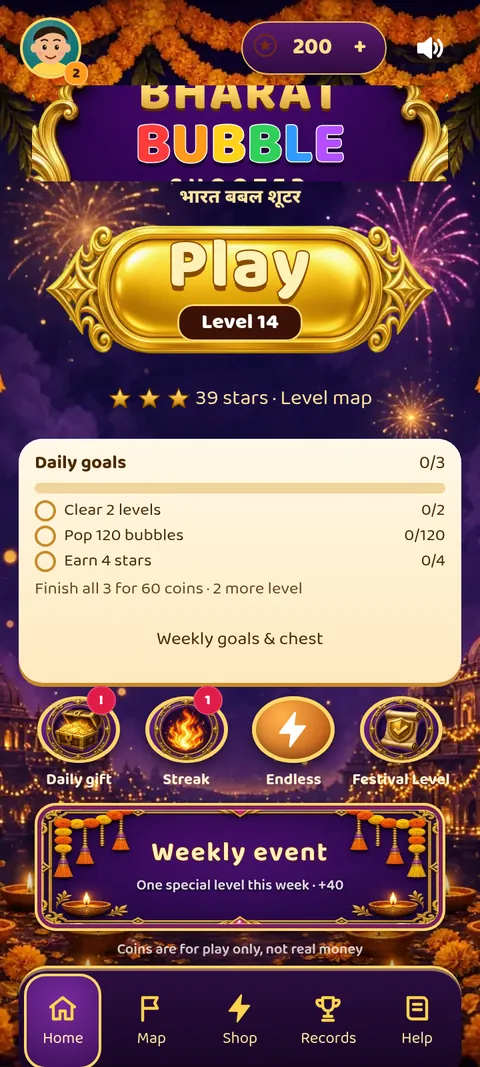
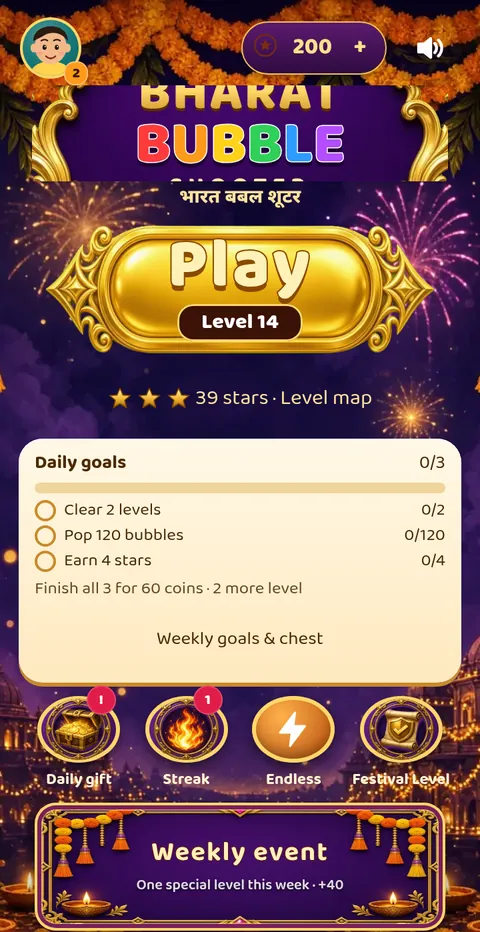
Review fixes: real, clean screenshots and Carrom boards line
- snakes-game: crop off the 'Pass & Play · Match Cost 0' pill (480x940)
- bubble-game: real level captured from desi-bubble-shooter af4ed8e with
  the shooter, aim line and boosters; test banner cropped off (480x967)
- callbreak-table: fresh capture from desi-call-break 4745f1b with the
  player named Raju and the current header; test banner cropped (480x975)
- bubble-home: crop off the disclaimer line above the tab bar (480x932)
- Carrom: 'from Royal Wood to Rajwada Royal' in EN and HI
- 1:2 phone frame (.screen.r12) for ~1:2 shots so they are not side-cropped
- tests: frame shape matches each shot; Carrom boards line

diff --git a/public/carrom/index.html b/public/carrom/index.html
@@ -13,7 +13,7 @@
 <link rel="apple-touch-icon" href="/apple-touch-icon.png">
 <link rel="preload" href="/assets/fonts/YesevaOne.woff2" as="font" type="font/woff2" crossorigin>
 <link rel="preload" href="/assets/fonts/Literata-latin.woff2" as="font" type="font/woff2" crossorigin>
-<link rel="stylesheet" href="/assets/css/site.css?v=c27aa1b15f">
+<link rel="stylesheet" href="/assets/css/site.css?v=cddb6d443c">
 <meta property="og:site_name" content="Bharat Joy">
 <meta property="og:type" content="website">
 <meta property="og:locale" content="en_IN">
@@ -65,7 +65,7 @@
         <li><span data-i18n="t1">Three modes: Classic (cover the queen), Freestyle to 120 points, and Disc Pool</span></li>
         <li><span data-i18n="t2">Play the computer at Easy, Medium or Hard, or two players on one phone with Pass and Play</span></li>
         <li><span data-i18n="t3">Aaj ka Shot: a new carrom puzzle every day</span></li>
-        <li><span data-i18n="t4">Seven boards, from Royal Wood to Diwali Night. Looks only: every board plays the same.</span></li>
+        <li><span data-i18n="t4">Seven boards, from Royal Wood to Rajwada Royal. Looks only: every board plays the same.</span></li>
         <li><span data-i18n="t5">A daily gift, a daily spin, goals, chests, streaks and trophies</span></li>
         <li><span data-i18n="t6">Optional match commentary, spoken by your phone’s own voice</span></li>
         <li><span data-i18n="t7">Rewarded ads only when you choose, and a banner on the home screen and during matches. No full-screen ads.</span></li>
@@ -110,7 +110,7 @@
     </div>
   </footer>
 </div>
-<script type="application/json" id="i18n-hi">{"t1":"तीन मोड: क्लासिक (रानी कवर करो), 120 अंक तक फ़्रीस्टाइल, और डिस्क पूल","t2":"कंप्यूटर के साथ आसान, मध्यम या कठिन स्तर पर खेलें, या पास एंड प्ले में एक फ़ोन पर दो खिलाड़ी","t3":"आज का शॉट: हर दिन एक नई कैरम पहेली","t4":"रॉयल वुड से दिवाली नाइट तक सात बोर्ड। सिर्फ़ रूप बदलता है, हर बोर्ड पर खेल एक जैसा है।","t5":"डेली गिफ़्ट, डेली स्पिन, लक्ष्य, संदूक, स्ट्रीक और ट्रॉफ़ी","t6":"चाहें तो मैच पर कमेंट्री, फ़ोन की अपनी आवाज़ में","t7":"इनाम वाले विज्ञापन सिर्फ़ आपकी मर्ज़ी से, और बैनर होम स्क्रीन पर और मैच के दौरान। कोई फ़ुल-स्क्रीन विज्ञापन नहीं।","t8":"बिना इंटरनेट भी चलता है, विज्ञापनों के लिए इंटरनेट चाहिए। अंग्रेज़ी और हिंदी।","t9":"भारत जॉय का एक गेम","t10":"जल्द आ रहा है","t11":"स्ट्राइकर से निशाना लगाओ, रानी कवर करो।","t12":"आपके फ़ोन के लिए कैरम, अंग्रेज़ी और हिंदी में। क्लासिक, फ़्रीस्टाइल या डिस्क पूल कंप्यूटर के साथ खेलें, या फ़ोन दोस्त को पास करें। बिना इंटरनेट भी चलता है।","t13":"कैरम बोर्ड पर","t14":"गेम की झलक","t15":"सिक्के सिर्फ़ खेलकर कमाए जाते हैं और उनका कोई पैसा मूल्य नहीं है। इन्हें न ख़रीदा जा सकता है न भुनाया जा सकता है। पैकेज नाम: com.bharatjoy.carrom.","t16":"जल्द Google Play पर","t17":"गोपनीयता नीति","t18":"सामग्री पर जाएँ","t19":"गेम","t20":"गोपनीयता","t21":"संपर्क","t22":"एक छोटा स्टूडियो। Google Play के लिए गेम। सिक्के सिर्फ़ खेलने के लिए हैं, उनका कोई पैसा मूल्य नहीं है।","t23":"सहायता","t24":"नीतियाँ","t25":"भारत लूडो गोपनीयता","t26":"भारत ब्लॉक पहेली गोपनीयता","t27":"भारत स्वीट मेला गोपनीयता","t28":"भारत कैरम गोपनीयता","t29":"भारत सुडोकू गोपनीयता","t30":"भारत कॉल ब्रेक गोपनीयता","t31":"भारत बबल शूटर गोपनीयता","t32":"डेटा हटाना","t33":"उपयोग की शर्तें","t34":"संपर्क"}</script>
+<script type="application/json" id="i18n-hi">{"t1":"तीन मोड: क्लासिक (रानी कवर करो), 120 अंक तक फ़्रीस्टाइल, और डिस्क पूल","t2":"कंप्यूटर के साथ आसान, मध्यम या कठिन स्तर पर खेलें, या पास एंड प्ले में एक फ़ोन पर दो खिलाड़ी","t3":"आज का शॉट: हर दिन एक नई कैरम पहेली","t4":"रॉयल वुड से राजवाड़ा रॉयल तक सात बोर्ड। सिर्फ़ रूप बदलता है, हर बोर्ड पर खेल एक जैसा है।","t5":"डेली गिफ़्ट, डेली स्पिन, लक्ष्य, संदूक, स्ट्रीक और ट्रॉफ़ी","t6":"चाहें तो मैच पर कमेंट्री, फ़ोन की अपनी आवाज़ में","t7":"इनाम वाले विज्ञापन सिर्फ़ आपकी मर्ज़ी से, और बैनर होम स्क्रीन पर और मैच के दौरान। कोई फ़ुल-स्क्रीन विज्ञापन नहीं।","t8":"बिना इंटरनेट भी चलता है, विज्ञापनों के लिए इंटरनेट चाहिए। अंग्रेज़ी और हिंदी।","t9":"भारत जॉय का एक गेम","t10":"जल्द आ रहा है","t11":"स्ट्राइकर से निशाना लगाओ, रानी कवर करो।","t12":"आपके फ़ोन के लिए कैरम, अंग्रेज़ी और हिंदी में। क्लासिक, फ़्रीस्टाइल या डिस्क पूल कंप्यूटर के साथ खेलें, या फ़ोन दोस्त को पास करें। बिना इंटरनेट भी चलता है।","t13":"कैरम बोर्ड पर","t14":"गेम की झलक","t15":"सिक्के सिर्फ़ खेलकर कमाए जाते हैं और उनका कोई पैसा मूल्य नहीं है। इन्हें न ख़रीदा जा सकता है न भुनाया जा सकता है। पैकेज नाम: com.bharatjoy.carrom.","t16":"जल्द Google Play पर","t17":"गोपनीयता नीति","t18":"सामग्री पर जाएँ","t19":"गेम","t20":"गोपनीयता","t21":"संपर्क","t22":"एक छोटा स्टूडियो। Google Play के लिए गेम। सिक्के सिर्फ़ खेलने के लिए हैं, उनका कोई पैसा मूल्य नहीं है।","t23":"सहायता","t24":"नीतियाँ","t25":"भारत लूडो गोपनीयता","t26":"भारत ब्लॉक पहेली गोपनीयता","t27":"भारत स्वीट मेला गोपनीयता","t28":"भारत कैरम गोपनीयता","t29":"भारत सुडोकू गोपनीयता","t30":"भारत कॉल ब्रेक गोपनीयता","t31":"भारत बबल शूटर गोपनीयता","t32":"डेटा हटाना","t33":"उपयोग की शर्तें","t34":"संपर्क"}</script>
 <script src="/assets/js/lang.js?v=e0640998f9"></script>
 </body>
 </html>

diff --git a/public/bubble-shooter/index.html b/public/bubble-shooter/index.html
@@ -13,7 +13,7 @@
 <link rel="apple-touch-icon" href="/apple-touch-icon.png">
 <link rel="preload" href="/assets/fonts/YesevaOne.woff2" as="font" type="font/woff2" crossorigin>
 <link rel="preload" href="/assets/fonts/Literata-latin.woff2" as="font" type="font/woff2" crossorigin>
-<link rel="stylesheet" href="/assets/css/site.css?v=c27aa1b15f">
+<link rel="stylesheet" href="/assets/css/site.css?v=cddb6d443c">
 <meta property="og:site_name" content="Bharat Joy">
 <meta property="og:type" content="website">
 <meta property="og:locale" content="en_IN">
@@ -46,7 +46,7 @@
 
   <main id="main">
   <section class="game-hero" aria-labelledby="game-title">
-    <div class="frame"><div class="phone float"><div class="bezel"><div class="screen"><img src="/assets/img/shots/bubble-home.webp" width="480" height="1067" alt="Bharat Bubble Shooter home screen with Play, daily goals and the weekly event" fetchpriority="high" decoding="async"></div></div></div></div>
+    <div class="frame"><div class="phone float"><div class="bezel"><div class="screen r12"><img src="/assets/img/shots/bubble-home.webp" width="480" height="932" alt="Bharat Bubble Shooter home screen with Play, daily goals and the weekly event" fetchpriority="high" decoding="async"></div></div></div></div>
     <div class="game-copy">
       <img class="game-icon" src="/assets/img/icons/bubble-icon-96.webp" width="84" height="84" alt="Bharat Bubble Shooter icon" fetchpriority="high">
       <p class="kicker"><span data-i18n="t9">A Bharat Joy game</span></p>
@@ -73,7 +73,7 @@
       </ul>
     </div>
     <figure class="feat-shot">
-      <div class="phone "><div class="bezel"><div class="screen"><img src="/assets/img/shots/bubble-game.webp" width="480" height="1034" alt="A Bharat Bubble Shooter level in progress, with the lotus shooter, the aim line and boosters" loading="lazy" decoding="async"></div></div></div>
+      <div class="phone "><div class="bezel"><div class="screen r12"><img src="/assets/img/shots/bubble-game.webp" width="480" height="967" alt="A Bharat Bubble Shooter level in progress, with the lotus shooter, the aim line and boosters" loading="lazy" decoding="async"></div></div></div>
       <figcaption class="sr-only"><span data-i18n="t14">Screens from the game</span></figcaption>
     </figure>
   </section>

diff --git a/public/saanp-seedhi/index.html b/public/saanp-seedhi/index.html
@@ -13,7 +13,7 @@
 <link rel="apple-touch-icon" href="/apple-touch-icon.png">
 <link rel="preload" href="/assets/fonts/YesevaOne.woff2" as="font" type="font/woff2" crossorigin>
 <link rel="preload" href="/assets/fonts/Literata-latin.woff2" as="font" type="font/woff2" crossorigin>
-<link rel="stylesheet" href="/assets/css/site.css?v=c27aa1b15f">
+<link rel="stylesheet" href="/assets/css/site.css?v=cddb6d443c">
 <meta property="og:site_name" content="Bharat Joy">
 <meta property="og:type" content="website">
 <meta property="og:locale" content="en_IN">
@@ -46,7 +46,7 @@
 
   <main id="main">
   <section class="game-hero" aria-labelledby="game-title">
-    <div class="frame"><div class="phone float"><div class="bezel"><div class="screen"><img src="/assets/img/shots/snakes-game.webp" width="480" height="1039" alt="A Bharat Saanp Seedhi Pass and Play match on the classic board, with the die, Shield and Re-roll" fetchpriority="high" decoding="async"></div></div></div></div>
+    <div class="frame"><div class="phone float"><div class="bezel"><div class="screen r12"><img src="/assets/img/shots/snakes-game.webp" width="480" height="940" alt="A Bharat Saanp Seedhi Pass and Play match on the classic board, with the die, Shield and Re-roll" fetchpriority="high" decoding="async"></div></div></div></div>
     <div class="game-copy">
       <img class="game-icon" src="/assets/img/icons/snakes-icon-96.webp" width="84" height="84" alt="Bharat Saanp Seedhi icon" fetchpriority="high">
       <p class="kicker"><span data-i18n="t9">A Bharat Joy game</span></p>

diff --git a/public/call-break/index.html b/public/call-break/index.html
@@ -13,7 +13,7 @@
 <link rel="apple-touch-icon" href="/apple-touch-icon.png">
 <link rel="preload" href="/assets/fonts/YesevaOne.woff2" as="font" type="font/woff2" crossorigin>
 <link rel="preload" href="/assets/fonts/Literata-latin.woff2" as="font" type="font/woff2" crossorigin>
-<link rel="stylesheet" href="/assets/css/site.css?v=c27aa1b15f">
+<link rel="stylesheet" href="/assets/css/site.css?v=cddb6d443c">
 <meta property="og:site_name" content="Bharat Joy">
 <meta property="og:type" content="website">
 <meta property="og:locale" content="en_IN">
@@ -74,7 +74,7 @@
       </ul>
     </div>
     <figure class="feat-shot">
-      <div class="phone "><div class="bezel"><div class="screen r169"><img src="/assets/img/shots/callbreak-table.webp" width="480" height="835" alt="A Bharat Call Break trick on the festive table, with spades as trump" loading="lazy" decoding="async"></div></div></div>
+      <div class="phone "><div class="bezel"><div class="screen r12"><img src="/assets/img/shots/callbreak-table.webp" width="480" height="975" alt="A Bharat Call Break trick in progress against three computer players, with spades as trump" loading="lazy" decoding="async"></div></div></div>
       <figcaption class="sr-only"><span data-i18n="t15">Screens from the game</span></figcaption>
     </figure>
   </section>

diff --git a/public/404.html b/public/404.html
@@ -13,7 +13,7 @@
 <link rel="apple-touch-icon" href="/apple-touch-icon.png">
 <link rel="preload" href="/assets/fonts/YesevaOne.woff2" as="font" type="font/woff2" crossorigin>
 <link rel="preload" href="/assets/fonts/Literata-latin.woff2" as="font" type="font/woff2" crossorigin>
-<link rel="stylesheet" href="/assets/css/site.css?v=c27aa1b15f">
+<link rel="stylesheet" href="/assets/css/site.css?v=cddb6d443c">
 <meta property="og:site_name" content="Bharat Joy">
 <meta property="og:type" content="website">
 <meta property="og:locale" content="en_IN">

diff --git a/public/bharat-ludo/index.html b/public/bharat-ludo/index.html
@@ -13,7 +13,7 @@
 <link rel="apple-touch-icon" href="/apple-touch-icon.png">
 <link rel="preload" href="/assets/fonts/YesevaOne.woff2" as="font" type="font/woff2" crossorigin>
 <link rel="preload" href="/assets/fonts/Literata-latin.woff2" as="font" type="font/woff2" crossorigin>
-<link rel="stylesheet" href="/assets/css/site.css?v=c27aa1b15f">
+<link rel="stylesheet" href="/assets/css/site.css?v=cddb6d443c">
 <meta property="og:site_name" content="Bharat Joy">
 <meta property="og:type" content="website">
 <meta property="og:locale" content="en_IN">

diff --git a/public/bharat-ludo/privacy.html b/public/bharat-ludo/privacy.html
@@ -13,7 +13,7 @@
 <link rel="apple-touch-icon" href="/apple-touch-icon.png">
 <link rel="preload" href="/assets/fonts/YesevaOne.woff2" as="font" type="font/woff2" crossorigin>
 <link rel="preload" href="/assets/fonts/Literata-latin.woff2" as="font" type="font/woff2" crossorigin>
-<link rel="stylesheet" href="/assets/css/site.css?v=c27aa1b15f">
+<link rel="stylesheet" href="/assets/css/site.css?v=cddb6d443c">
 <meta property="og:site_name" content="Bharat Joy">
 <meta property="og:type" content="website">
 <meta property="og:locale" content="en_IN">

diff --git a/public/block-puzzle/index.html b/public/block-puzzle/index.html
@@ -13,7 +13,7 @@
 <link rel="apple-touch-icon" href="/apple-touch-icon.png">
 <link rel="preload" href="/assets/fonts/YesevaOne.woff2" as="font" type="font/woff2" crossorigin>
 <link rel="preload" href="/assets/fonts/Literata-latin.woff2" as="font" type="font/woff2" crossorigin>
-<link rel="stylesheet" href="/assets/css/site.css?v=c27aa1b15f">
+<link rel="stylesheet" href="/assets/css/site.css?v=cddb6d443c">
 <meta property="og:site_name" content="Bharat Joy">
 <meta property="og:type" content="website">
 <meta property="og:locale" content="en_IN">

diff --git a/public/block-puzzle/privacy.html b/public/block-puzzle/privacy.html
@@ -13,7 +13,7 @@
 <link rel="apple-touch-icon" href="/apple-touch-icon.png">
 <link rel="preload" href="/assets/fonts/YesevaOne.woff2" as="font" type="font/woff2" crossorigin>
 <link rel="preload" href="/assets/fonts/Literata-latin.woff2" as="font" type="font/woff2" crossorigin>
-<link rel="stylesheet" href="/assets/css/site.css?v=c27aa1b15f">
+<link rel="stylesheet" href="/assets/css/site.css?v=cddb6d443c">
 <meta property="og:site_name" content="Bharat Joy">
 <meta property="og:type" content="website">
 <meta property="og:locale" content="en_IN">

diff --git a/public/bubble-shooter/privacy.html b/public/bubble-shooter/privacy.html
@@ -13,7 +13,7 @@
 <link rel="apple-touch-icon" href="/apple-touch-icon.png">
 <link rel="preload" href="/assets/fonts/YesevaOne.woff2" as="font" type="font/woff2" crossorigin>
 <link rel="preload" href="/assets/fonts/Literata-latin.woff2" as="font" type="font/woff2" crossorigin>
-<link rel="stylesheet" href="/assets/css/site.css?v=c27aa1b15f">
+<link rel="stylesheet" href="/assets/css/site.css?v=cddb6d443c">
 <meta property="og:site_name" content="Bharat Joy">
 <meta property="og:type" content="website">
 <meta property="og:locale" content="en_IN">

diff --git a/public/call-break/privacy.html b/public/call-break/privacy.html
@@ -13,7 +13,7 @@
 <link rel="apple-touch-icon" href="/apple-touch-icon.png">
 <link rel="preload" href="/assets/fonts/YesevaOne.woff2" as="font" type="font/woff2" crossorigin>
 <link rel="preload" href="/assets/fonts/Literata-latin.woff2" as="font" type="font/woff2" crossorigin>
-<link rel="stylesheet" href="/assets/css/site.css?v=c27aa1b15f">
+<link rel="stylesheet" href="/assets/css/site.css?v=cddb6d443c">
 <meta property="og:site_name" content="Bharat Joy">
 <meta property="og:type" content="website">
 <meta property="og:locale" content="en_IN">

diff --git a/public/carrom/privacy.html b/public/carrom/privacy.html
@@ -13,7 +13,7 @@
 <link rel="apple-touch-icon" href="/apple-touch-icon.png">
 <link rel="preload" href="/assets/fonts/YesevaOne.woff2" as="font" type="font/woff2" crossorigin>
 <link rel="preload" href="/assets/fonts/Literata-latin.woff2" as="font" type="font/woff2" crossorigin>
-<link rel="stylesheet" href="/assets/css/site.css?v=c27aa1b15f">
+<link rel="stylesheet" href="/assets/css/site.css?v=cddb6d443c">
 <meta property="og:site_name" content="Bharat Joy">
 <meta property="og:type" content="website">
 <meta property="og:locale" content="en_IN">
